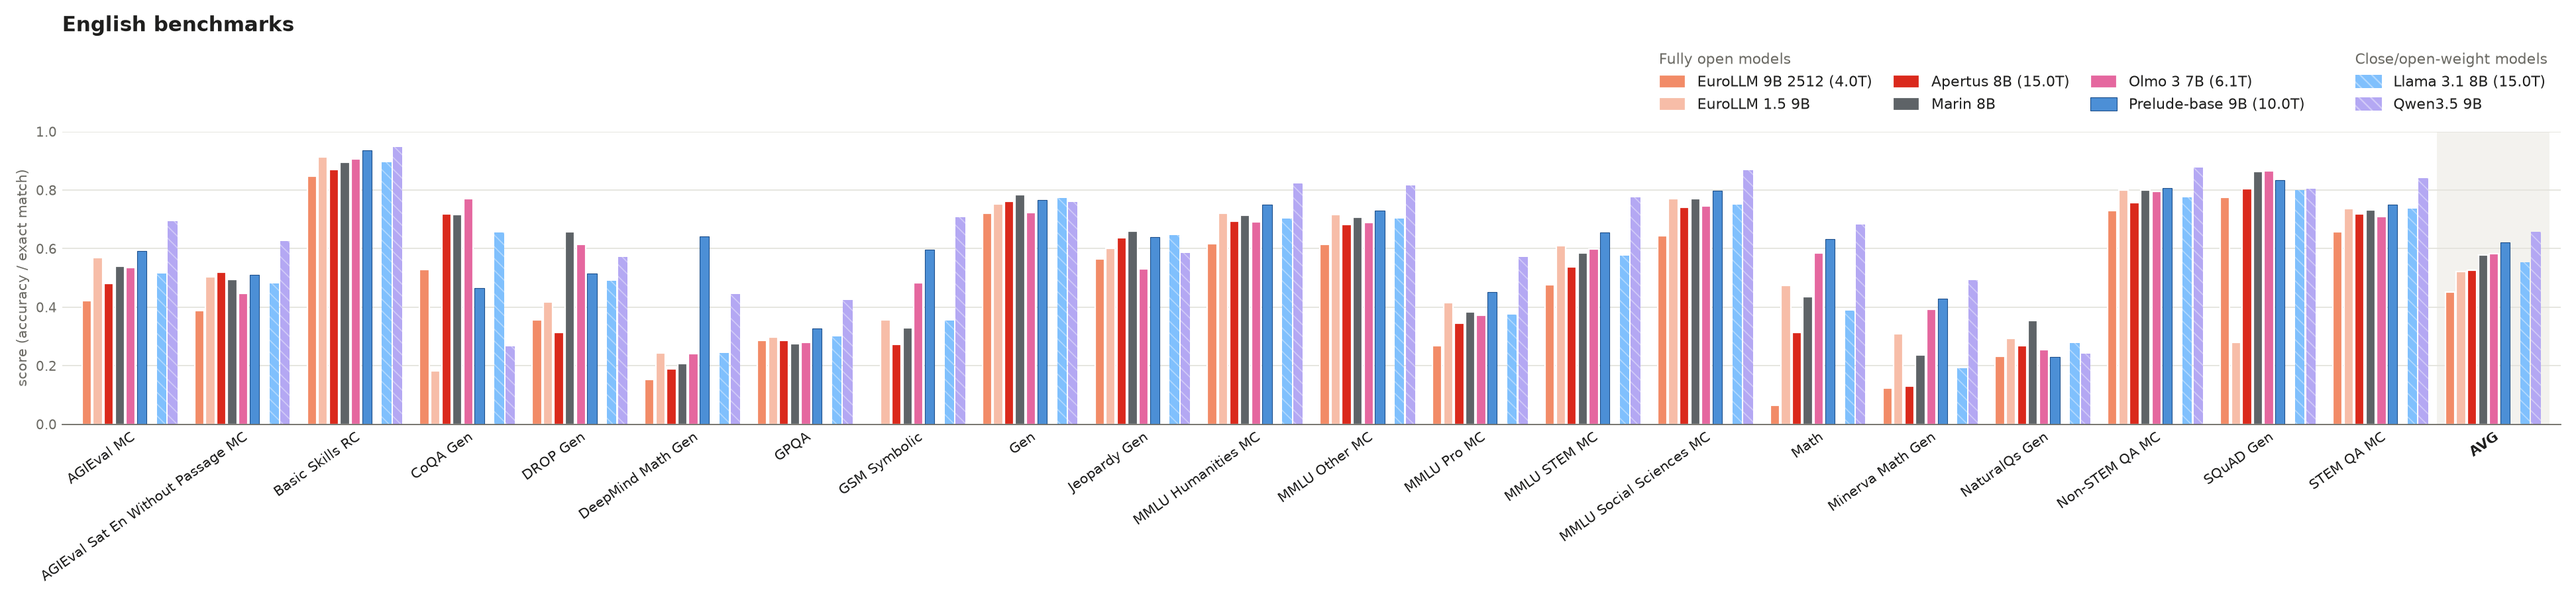
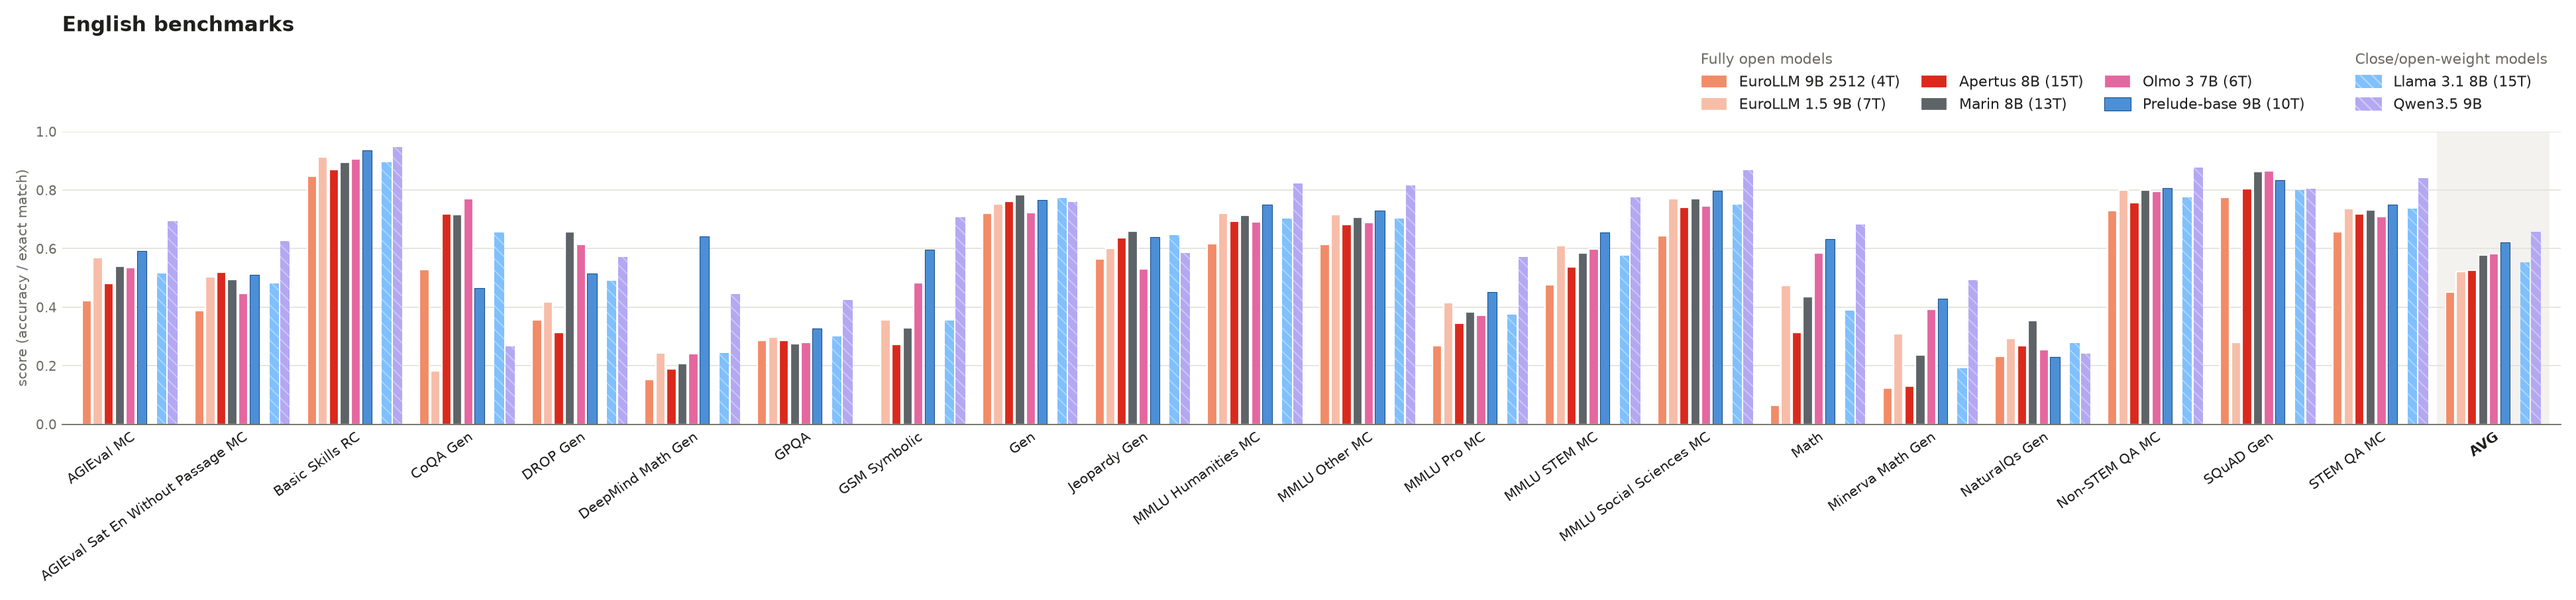
update num tokens

Changed region(s): [[0.6224, 0.0927, 0.9025, 0.1854]]

diff --git a/prelude-evaluations-model-card/plot_results.py b/prelude-evaluations-model-card/plot_results.py
@@ -341,13 +341,27 @@ def latest(df: pd.DataFrame) -> pd.DataFrame:
     return df[ckpt == df["series"].map(best)]
 
 
+# Training tokens of released models whose scores do not record them (name ->
+# tokens), shown in the row label.
+KNOWN_TOKENS = {
+    "EuroLLM 9B": 4e12,         # EuroLLM-9B model card
+    "EuroLLM 9B 2512": 4e12,    # as in the ellamind scores (NorEval lacks it)
+    "Llama 3.1 8B": 15e12,      # as in the ellamind scores (NorEval lacks it)
+    "Olmo 3 7B": 6e12,          # 6.1T in the ellamind scores
+    "Apertus 8B": 15e12,        # as in the ellamind scores
+    "EuroLLM 1.5 9B": 7e12,
+    "Marin 8B": 13e12,          # marin-8b-base model card: 12.7T (deeper-starling)
+}
+
+
 def finish(df: pd.DataFrame, models: dict[str, str]) -> pd.DataFrame:
     """Latest checkpoint per series, row labels with the tokens seen, and only
     tasks every model has."""
     df = latest(df[df["series"].isin(models)])
     tok = df.groupby("series")["tokens"].first()
+    tok = tok.fillna(tok.index.to_series().map(models).map(KNOWN_TOKENS))
     label = {s: DISPLAY.get(models[s], models[s])
-             + (f" ({tok[s] / 1e12:.1f}T)" if pd.notna(tok.get(s))
+             + (f" ({tok[s] / 1e12:.0f}T)" if pd.notna(tok.get(s))
                              else "") for s in df["series"].unique()}
     df = df.assign(label=df["series"].map(label), name=df["series"].map(models),
                    order=df["series"].map(list(models).index))

diff --git a/prelude-evaluations-model-card/README.md b/prelude-evaluations-model-card/README.md
@@ -40,14 +40,14 @@ Automatically generated by `plot_results.py` on 2026-11-17; do not edit below th
 | model | GPQA | Gen | MMLU Humanities MC | MMLU Other MC | MMLU STEM MC | MMLU Social Sciences MC | Math | Minerva Math Gen | Non-STEM QA MC | STEM QA MC | AVG |
 |---|---:|---:|---:|---:|---:|---:|---:|---:|---:|---:|---:|
 | ***Fully open models*** | | | | | | | | | | | |
-| EuroLLM 9B 2512 (4.0T) | 0.29 | 0.72 | 0.62 | 0.61 | 0.48 | 0.64 | 0.07 | 0.12 | 0.73 | 0.77 | 0.50 |
-| Apertus 8B (15.0T) | 0.29 | 0.76 | 0.69 | 0.68 | 0.54 | 0.74 | 0.31 | 0.13 | 0.78 | 0.85 | 0.58 |
-| Marin 8B | 0.27 | **0.79** | 0.71 | 0.71 | 0.59 | 0.77 | 0.44 | 0.24 | 0.81 | 0.86 | 0.62 |
-| EuroLLM 1.5 9B | 0.30 | 0.76 | 0.72 | 0.72 | 0.61 | 0.77 | 0.47 | 0.31 | 0.79 | 0.87 | 0.63 |
-| Olmo 3 7B (6.1T) | 0.28 | 0.73 | 0.69 | 0.69 | 0.60 | 0.75 | 0.58 | 0.39 | 0.78 | 0.86 | 0.63 |
-| Prelude-base 9B (10.0T) | 0.33 | 0.77 | 0.75 | 0.73 | 0.66 | 0.80 | 0.63 | 0.43 | 0.82 | 0.90 | 0.68 |
+| EuroLLM 9B 2512 (4T) | 0.29 | 0.72 | 0.62 | 0.61 | 0.48 | 0.64 | 0.07 | 0.12 | 0.73 | 0.77 | 0.50 |
+| Apertus 8B (15T) | 0.29 | 0.76 | 0.69 | 0.68 | 0.54 | 0.74 | 0.31 | 0.13 | 0.78 | 0.85 | 0.58 |
+| Marin 8B (13T) | 0.27 | **0.79** | 0.71 | 0.71 | 0.59 | 0.77 | 0.44 | 0.24 | 0.81 | 0.86 | 0.62 |
+| EuroLLM 1.5 9B (7T) | 0.30 | 0.76 | 0.72 | 0.72 | 0.61 | 0.77 | 0.47 | 0.31 | 0.79 | 0.87 | 0.63 |
+| Olmo 3 7B (6T) | 0.28 | 0.73 | 0.69 | 0.69 | 0.60 | 0.75 | 0.58 | 0.39 | 0.78 | 0.86 | 0.63 |
+| Prelude-base 9B (10T) | 0.33 | 0.77 | 0.75 | 0.73 | 0.66 | 0.80 | 0.63 | 0.43 | 0.82 | 0.90 | 0.68 |
 | ***Close/open-weight models*** | | | | | | | | | | | |
-| Llama 3.1 8B (15.0T) | 0.30 | 0.78 | 0.70 | 0.70 | 0.58 | 0.75 | 0.39 | 0.19 | 0.78 | 0.83 | 0.60 |
+| Llama 3.1 8B (15T) | 0.30 | 0.78 | 0.70 | 0.70 | 0.58 | 0.75 | 0.39 | 0.19 | 0.78 | 0.83 | 0.60 |
 | Qwen3.5 9B | **0.42** | 0.77 | **0.82** | **0.82** | **0.78** | **0.87** | **0.68** | **0.49** | **0.87** | **0.93** | **0.75** |
 
 ## Multilingual (decontaminated only)
@@ -57,13 +57,13 @@ Automatically generated by `plot_results.py` on 2026-11-17; do not edit below th
 | model | ARC Challenge MT | Belebele | Global MMLU | INCLUDE | MultiBLiMP | XCSQA | xHellaSwag | AVG |
 |---|---:|---:|---:|---:|---:|---:|---:|---:|
 | ***Fully open models*** | | | | | | | | |
-| Olmo 3 7B | 0.30 | 0.66 | 0.46 | 0.37 | 0.78 | 0.34 | 0.41 | 0.47 |
-| Marin 8B | 0.31 | 0.70 | 0.49 | 0.40 | 0.82 | 0.33 | 0.47 | 0.50 |
-| EuroLLM 9B | 0.41 | 0.74 | 0.53 | 0.50 | 0.92 | 0.36 | 0.62 | 0.58 |
-| Apertus 8B (15.0T) | 0.46 | 0.79 | 0.59 | 0.59 | **0.94** | 0.42 | 0.64 | 0.63 |
-| Prelude-base 9B (10.0T) | **0.48** | 0.87 | 0.66 | 0.62 | **0.94** | **0.44** | **0.65** | **0.67** |
+| Olmo 3 7B (6T) | 0.30 | 0.66 | 0.46 | 0.37 | 0.78 | 0.34 | 0.41 | 0.47 |
+| Marin 8B (13T) | 0.31 | 0.70 | 0.49 | 0.40 | 0.82 | 0.33 | 0.47 | 0.50 |
+| EuroLLM 9B (4T) | 0.41 | 0.74 | 0.53 | 0.50 | 0.92 | 0.36 | 0.62 | 0.58 |
+| Apertus 8B (15T) | 0.46 | 0.79 | 0.59 | 0.59 | **0.94** | 0.42 | 0.64 | 0.63 |
+| Prelude-base 9B (10T) | **0.48** | 0.87 | 0.66 | 0.62 | **0.94** | **0.44** | **0.65** | **0.67** |
 | ***Close/open-weight models*** | | | | | | | | |
-| Llama 3.1 8B | 0.39 | 0.78 | 0.55 | 0.52 | 0.90 | 0.43 | 0.56 | 0.59 |
+| Llama 3.1 8B (15T) | 0.39 | 0.78 | 0.55 | 0.52 | 0.90 | 0.43 | 0.56 | 0.59 |
 | Qwen3.5 9B | 0.46 | **0.91** | **0.71** | **0.68** | 0.89 | 0.40 | 0.62 | **0.67** |
 
 ## German
@@ -73,14 +73,14 @@ Automatically generated by `plot_results.py` on 2026-11-17; do not edit below th
 | model | AGIEval MC | AGIEval Sat En Without Passage MC | CoQA Gen | GLP | GLP MC | Gen | Held-out | INCLUDE MC | MMLU Pro MC | MMMLU Non-STEM MC | MMMLU STEM MC | MMMLU Social Sciences MC | Minerva Math Gen | Non-STEM QA MC | STEM QA MC | AVG |
 |---|---:|---:|---:|---:|---:|---:|---:|---:|---:|---:|---:|---:|---:|---:|---:|---:|
 | ***Fully open models*** | | | | | | | | | | | | | | | | |
-| Olmo 3 7B (6.1T) | 0.42 | 0.36 | 0.33 | 0.89 | 0.64 | 0.53 | 0.29 | 0.51 | 0.28 | 0.48 | 0.46 | 0.48 | 0.20 | 0.79 | 0.67 | 0.49 |
-| EuroLLM 9B 2512 (4.0T) | 0.40 | 0.38 | 0.32 | **0.96** | 0.69 | 0.76 | 0.27 | 0.49 | 0.26 | 0.52 | 0.45 | 0.46 | 0.09 | 0.91 | 0.81 | 0.52 |
-| Marin 8B | 0.46 | 0.42 | 0.38 | 0.91 | 0.66 | 0.62 | 0.27 | 0.49 | 0.29 | 0.51 | 0.48 | 0.50 | 0.12 | 0.89 | 0.78 | 0.52 |
-| Apertus 8B (15.0T) | 0.46 | 0.42 | **0.44** | **0.96** | 0.74 | 0.80 | 0.27 | 0.56 | 0.32 | 0.59 | 0.50 | 0.57 | 0.08 | 0.94 | 0.87 | 0.57 |
-| EuroLLM 1.5 9B | 0.53 | 0.46 | 0.38 | **0.96** | 0.80 | 0.79 | 0.29 | 0.56 | 0.38 | 0.60 | 0.57 | 0.61 | 0.18 | 0.95 | 0.90 | 0.60 |
-| Prelude-base 9B (10.0T) | 0.57 | 0.48 | 0.36 | **0.96** | 0.79 | **0.81** | 0.30 | 0.59 | 0.41 | 0.64 | 0.62 | 0.67 | 0.21 | 0.96 | 0.93 | 0.62 |
+| Olmo 3 7B (6T) | 0.42 | 0.36 | 0.33 | 0.89 | 0.64 | 0.53 | 0.29 | 0.51 | 0.28 | 0.48 | 0.46 | 0.48 | 0.20 | 0.79 | 0.67 | 0.49 |
+| EuroLLM 9B 2512 (4T) | 0.40 | 0.38 | 0.32 | **0.96** | 0.69 | 0.76 | 0.27 | 0.49 | 0.26 | 0.52 | 0.45 | 0.46 | 0.09 | 0.91 | 0.81 | 0.52 |
+| Marin 8B (13T) | 0.46 | 0.42 | 0.38 | 0.91 | 0.66 | 0.62 | 0.27 | 0.49 | 0.29 | 0.51 | 0.48 | 0.50 | 0.12 | 0.89 | 0.78 | 0.52 |
+| Apertus 8B (15T) | 0.46 | 0.42 | **0.44** | **0.96** | 0.74 | 0.80 | 0.27 | 0.56 | 0.32 | 0.59 | 0.50 | 0.57 | 0.08 | 0.94 | 0.87 | 0.57 |
+| EuroLLM 1.5 9B (7T) | 0.53 | 0.46 | 0.38 | **0.96** | 0.80 | 0.79 | 0.29 | 0.56 | 0.38 | 0.60 | 0.57 | 0.61 | 0.18 | 0.95 | 0.90 | 0.60 |
+| Prelude-base 9B (10T) | 0.57 | 0.48 | 0.36 | **0.96** | 0.79 | **0.81** | 0.30 | 0.59 | 0.41 | 0.64 | 0.62 | 0.67 | 0.21 | 0.96 | 0.93 | 0.62 |
 | ***Close/open-weight models*** | | | | | | | | | | | | | | | | |
-| Llama 3.1 8B (15.0T) | 0.45 | 0.42 | 0.41 | 0.95 | 0.68 | 0.73 | 0.26 | 0.49 | 0.31 | 0.55 | 0.48 | 0.54 | 0.10 | 0.91 | 0.80 | 0.54 |
+| Llama 3.1 8B (15T) | 0.45 | 0.42 | 0.41 | 0.95 | 0.68 | 0.73 | 0.26 | 0.49 | 0.31 | 0.55 | 0.48 | 0.54 | 0.10 | 0.91 | 0.80 | 0.54 |
 | Qwen3.5 9B | **0.67** | **0.53** | 0.22 | **0.96** | **0.87** | 0.80 | **0.38** | **0.68** | **0.51** | **0.72** | **0.72** | **0.79** | **0.35** | **0.98** | **0.96** | **0.68** |
 
 ## Norwegian
@@ -90,12 +90,12 @@ Automatically generated by `plot_results.py` on 2026-11-17; do not edit below th
 | model | ASK GEC | MultiBLiMP SME | NCB | NRK Quiz QA NB | NRK Quiz QA NN | NoCoLA | NoReC Document | NoReC Sentence | NorBelebele | NorCommonsenseQA NB | NorCommonsenseQA NN | NorIdiom NB | NorIdiom NN | NorOpenBookQA NB | NorOpenBookQA NN | NorOpenBookQA no-fact NB | NorOpenBookQA no-fact NN | NorQuAD | NorTruthfulQA MC NB | NorTruthfulQA MC NN | SLIDE | NorSumm NB→NN | NorSumm NN→NB | Tatoeba EN→NB | Tatoeba EN→NN | Tatoeba NB→EN | Tatoeba NB→SME | Tatoeba NN→EN | Tatoeba SME→NB | AVG |
 |---|---:|---:|---:|---:|---:|---:|---:|---:|---:|---:|---:|---:|---:|---:|---:|---:|---:|---:|---:|---:|---:|---:|---:|---:|---:|---:|---:|---:|---:|---:|
 | ***Fully open models*** | | | | | | | | | | | | | | | | | | | | | | | | | | | | | | |
-| Olmo 3 7B | 0.21 | 0.64 | 0.71 | 0.41 | 0.37 | 0.72 | 0.62 | 0.48 | 0.58 | 0.39 | 0.25 | 0.05 | 0.06 | 0.61 | 0.47 | 0.39 | 0.33 | 0.48 | 0.46 | 0.53 | 0.36 | 41.5 | 46.8 | 29.0 | 10.3 | 49.2 | 0.5 | 38.5 | 1.2 | 0.43 |
-| EuroLLM 9B 2512 | **0.47** | 0.67 | 0.79 | 0.53 | 0.50 | 0.85 | 0.78 | 0.68 | 0.62 | 0.71 | 0.46 | 0.32 | 0.24 | 0.78 | 0.72 | 0.55 | 0.54 | 0.46 | 0.53 | 0.49 | 0.57 | 52.5 | 67.6 | **56.1** | 25.9 | **60.9** | 0.3 | 57.5 | 4.3 | 0.58 |
-| Apertus 8B | 0.45 | **0.75** | 0.73 | 0.54 | 0.52 | 0.85 | 0.65 | 0.61 | 0.67 | 0.67 | 0.46 | **0.37** | 0.42 | 0.81 | 0.79 | 0.59 | 0.50 | **0.65** | 0.50 | 0.49 | 0.49 | 66.5 | 72.5 | 54.3 | 43.3 | 59.6 | **2.0** | 57.7 | 13.3 | 0.60 |
-| Prelude-base 9B (10.0T) | **0.47** | 0.68 | **0.81** | 0.55 | **0.56** | **0.86** | 0.71 | **0.81** | 0.75 | 0.69 | 0.58 | 0.35 | **0.56** | 0.86 | 0.81 | 0.71 | 0.67 | 0.53 | 0.57 | 0.67 | 0.56 | **67.8** | **76.2** | 55.6 | **46.2** | 58.2 | 0.4 | **59.4** | 3.0 | 0.65 |
+| Olmo 3 7B (6T) | 0.21 | 0.64 | 0.71 | 0.41 | 0.37 | 0.72 | 0.62 | 0.48 | 0.58 | 0.39 | 0.25 | 0.05 | 0.06 | 0.61 | 0.47 | 0.39 | 0.33 | 0.48 | 0.46 | 0.53 | 0.36 | 41.5 | 46.8 | 29.0 | 10.3 | 49.2 | 0.5 | 38.5 | 1.2 | 0.43 |
+| EuroLLM 9B 2512 (4T) | **0.47** | 0.67 | 0.79 | 0.53 | 0.50 | 0.85 | 0.78 | 0.68 | 0.62 | 0.71 | 0.46 | 0.32 | 0.24 | 0.78 | 0.72 | 0.55 | 0.54 | 0.46 | 0.53 | 0.49 | 0.57 | 52.5 | 67.6 | **56.1** | 25.9 | **60.9** | 0.3 | 57.5 | 4.3 | 0.58 |
+| Apertus 8B (15T) | 0.45 | **0.75** | 0.73 | 0.54 | 0.52 | 0.85 | 0.65 | 0.61 | 0.67 | 0.67 | 0.46 | **0.37** | 0.42 | 0.81 | 0.79 | 0.59 | 0.50 | **0.65** | 0.50 | 0.49 | 0.49 | 66.5 | 72.5 | 54.3 | 43.3 | 59.6 | **2.0** | 57.7 | 13.3 | 0.60 |
+| Prelude-base 9B (10T) | **0.47** | 0.68 | **0.81** | 0.55 | **0.56** | **0.86** | 0.71 | **0.81** | 0.75 | 0.69 | 0.58 | 0.35 | **0.56** | 0.86 | 0.81 | 0.71 | 0.67 | 0.53 | 0.57 | 0.67 | 0.56 | **67.8** | **76.2** | 55.6 | **46.2** | 58.2 | 0.4 | **59.4** | 3.0 | 0.65 |
 | ***Close/open-weight models*** | | | | | | | | | | | | | | | | | | | | | | | | | | | | | | |
-| Llama 3.1 8B | 0.16 | 0.67 | 0.76 | 0.47 | 0.47 | 0.81 | 0.76 | 0.63 | 0.60 | 0.49 | 0.36 | 0.15 | 0.19 | 0.67 | 0.62 | 0.43 | 0.40 | 0.61 | 0.57 | 0.54 | 0.57 | 56.2 | 61.7 | 44.8 | 31.4 | 57.9 | 0.3 | 54.6 | 2.1 | 0.52 |
+| Llama 3.1 8B (15T) | 0.16 | 0.67 | 0.76 | 0.47 | 0.47 | 0.81 | 0.76 | 0.63 | 0.60 | 0.49 | 0.36 | 0.15 | 0.19 | 0.67 | 0.62 | 0.43 | 0.40 | 0.61 | 0.57 | 0.54 | 0.57 | 56.2 | 61.7 | 44.8 | 31.4 | 57.9 | 0.3 | 54.6 | 2.1 | 0.52 |
 | Qwen3.5 9B | 0.36 | 0.69 | 0.78 | **0.56** | 0.53 | 0.80 | **0.90** | 0.61 | **0.86** | **0.75** | **0.60** | 0.24 | 0.24 | **0.89** | **0.87** | **0.81** | **0.76** | 0.51 | **0.59** | **0.81** | **0.64** | 63.6 | 71.3 | 50.7 | 35.5 | 60.2 | 0.7 | 56.5 | **14.6** | **0.66** |
 
 ## Finnish
@@ -106,12 +106,12 @@ Automatically generated by `plot_results.py` on 2026-11-17; do not edit below th
 |---|---:|---:|---:|---:|---:|---:|---:|---:|---:|---:|---:|---:|---:|
 | ***Fully open models*** | | | | | | | | | | | | | |
 | FinGPT3 8B | 0.30 | 0.23 | 0.34 | 0.31 | 0.51 | 0.61 | 0.69 | 0.54 | 0.43 | 0.33 | 0.95 | 0.32 | 0.46 |
-| Olmo 3 7B | 0.36 | 0.60 | 0.61 | 0.39 | 0.55 | 0.64 | 0.60 | 0.32 | 0.64 | 0.59 | 0.88 | 0.31 | 0.54 |
-| Marin 8B | 0.42 | 0.71 | 0.73 | 0.51 | 0.63 | 0.64 | 0.59 | 0.37 | 0.65 | 0.65 | 0.94 | 0.31 | 0.60 |
+| Olmo 3 7B (6T) | 0.36 | 0.60 | 0.61 | 0.39 | 0.55 | 0.64 | 0.60 | 0.32 | 0.64 | 0.59 | 0.88 | 0.31 | 0.54 |
+| Marin 8B (13T) | 0.42 | 0.71 | 0.73 | 0.51 | 0.63 | 0.64 | 0.59 | 0.37 | 0.65 | 0.65 | 0.94 | 0.31 | 0.60 |
 | Salamandra 7B | 0.53 | 0.46 | 0.76 | 0.65 | 0.73 | 0.59 | 0.72 | 0.58 | 0.70 | 0.31 | 0.96 | 0.32 | 0.61 |
-| Apertus 8B | 0.62 | 0.76 | 0.87 | 0.60 | 0.82 | 0.68 | 0.75 | **0.67** | 0.68 | 0.62 | 0.96 | 0.38 | 0.70 |
-| EuroLLM 1.5 9B | 0.74 | 0.83 | 0.91 | 0.71 | 0.84 | 0.73 | 0.86 | 0.65 | 0.78 | 0.64 | **0.97** | 0.38 | 0.75 |
-| Prelude-base 9B (10.0T) | 0.79 | 0.85 | 0.93 | **0.75** | 0.88 | 0.75 | **0.91** | **0.67** | 0.78 | 0.59 | **0.97** | 0.36 | 0.77 |
+| Apertus 8B (15T) | 0.62 | 0.76 | 0.87 | 0.60 | 0.82 | 0.68 | 0.75 | **0.67** | 0.68 | 0.62 | 0.96 | 0.38 | 0.70 |
+| EuroLLM 1.5 9B (7T) | 0.74 | 0.83 | 0.91 | 0.71 | 0.84 | 0.73 | 0.86 | 0.65 | 0.78 | 0.64 | **0.97** | 0.38 | 0.75 |
+| Prelude-base 9B (10T) | 0.79 | 0.85 | 0.93 | **0.75** | 0.88 | 0.75 | **0.91** | **0.67** | 0.78 | 0.59 | **0.97** | 0.36 | 0.77 |
 | ***Close/open-weight models*** | | | | | | | | | | | | | |
-| Llama 3.1 8B | 0.45 | 0.74 | 0.76 | 0.59 | 0.79 | 0.64 | 0.62 | 0.44 | 0.68 | 0.61 | 0.95 | 0.34 | 0.63 |
+| Llama 3.1 8B (15T) | 0.45 | 0.74 | 0.76 | 0.59 | 0.79 | 0.64 | 0.62 | 0.44 | 0.68 | 0.61 | 0.95 | 0.34 | 0.63 |
 | Qwen3.5 9B | **0.86** | **0.89** | **0.99** | 0.72 | **0.89** | **0.78** | 0.86 | 0.58 | **0.81** | **0.68** | 0.96 | **0.39** | **0.78** |
